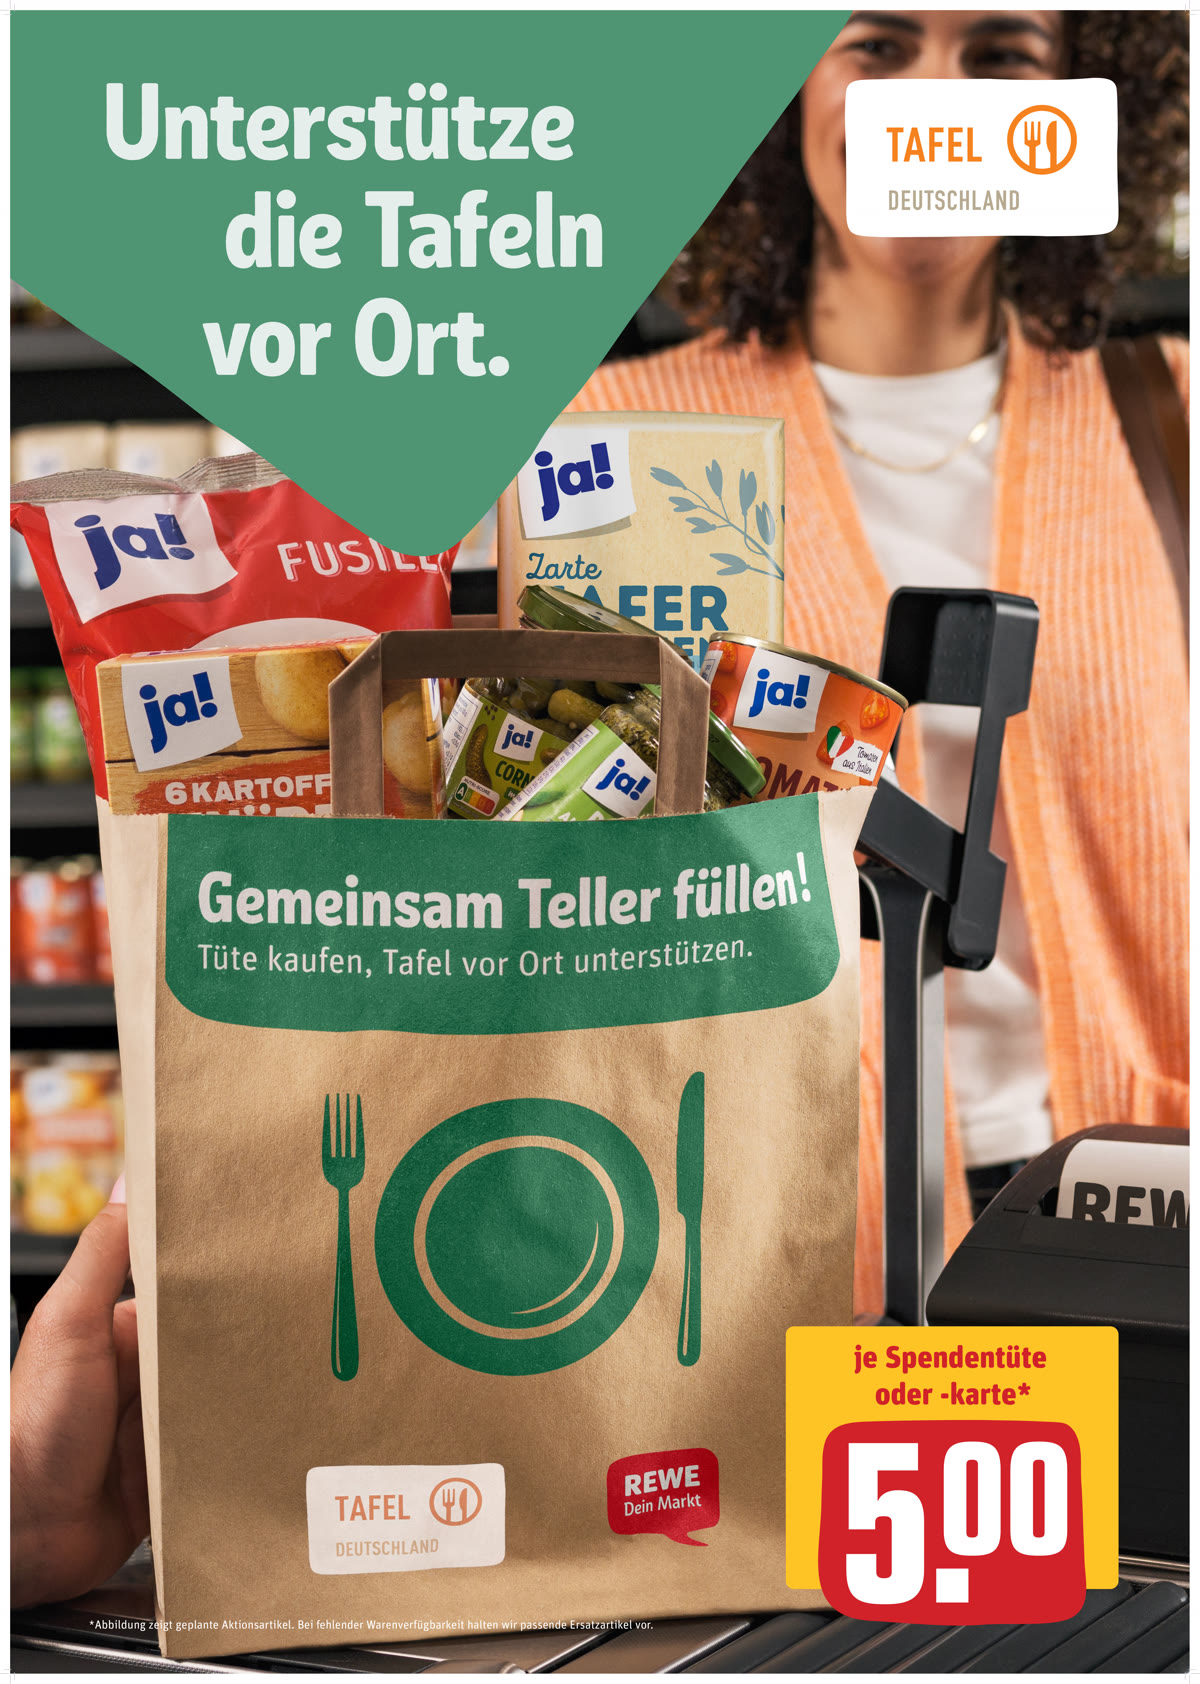
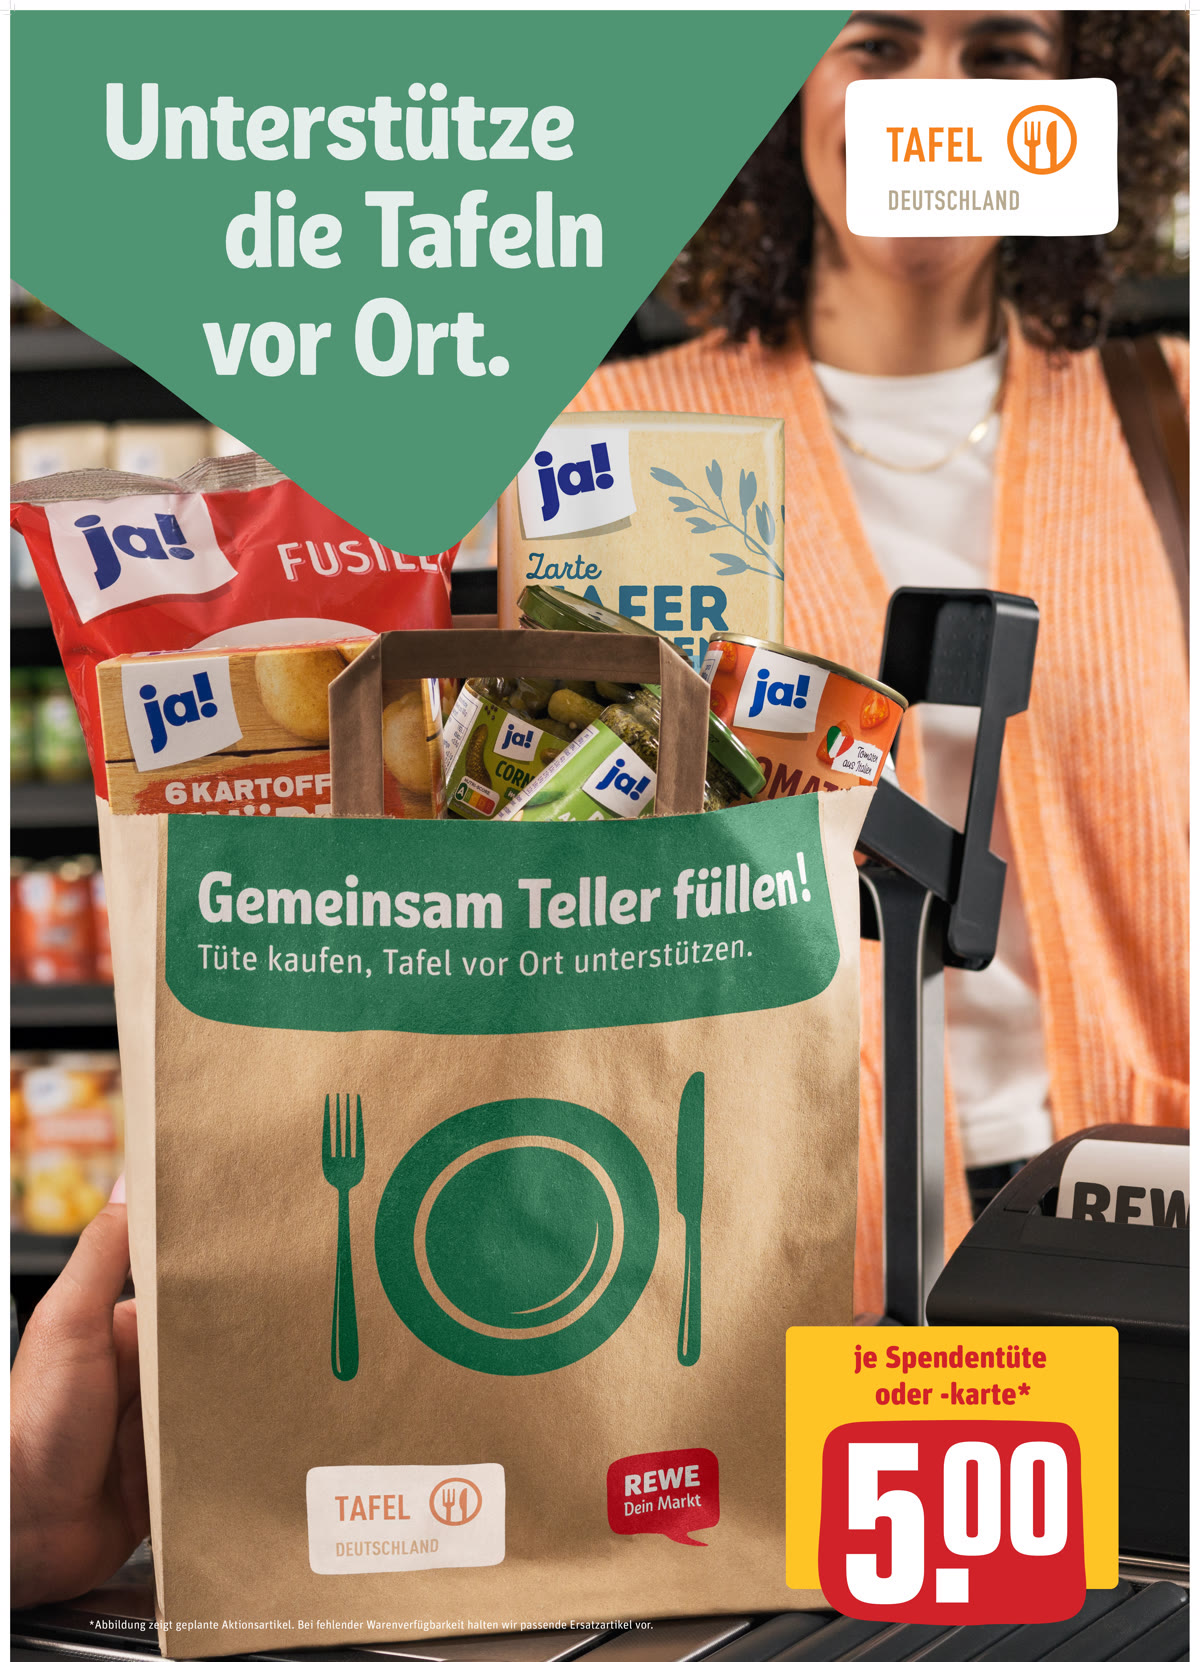
REWE Art Direction: Passermarken/Rand am Gehwegaufsteller-Bild abschneiden

diff --git a/lib/projects.ts b/lib/projects.ts
@@ -200,7 +200,7 @@ export const projects: Project[] = [
     cardVideo: "/projects/rewe-art-direction/neukundenrabatt.mp4",
     gallery: [
       { slotId: "detail-6", ratio: "1200/675", span2: true, src: "/projects/rewe-art-direction/weisser-bohnensalat.jpg", caption: "Rezeptkommunikation: Weißer Bohnensalat", placeholder: "Foto hier ablegen" },
-      { slotId: "detail-1", ratio: "1200/1684", span2: true, src: "/projects/rewe-art-direction/gehwegaufsteller.jpg", caption: "Gehwegaufsteller: Spendenaktion für die Tafeln vor Ort", placeholder: "Foto (Hochformat) hier ablegen" },
+      { slotId: "detail-1", ratio: "1200/1662", span2: true, src: "/projects/rewe-art-direction/gehwegaufsteller.jpg", caption: "Gehwegaufsteller: Spendenaktion für die Tafeln vor Ort", placeholder: "Foto (Hochformat) hier ablegen" },
       { slotId: "detail-2", ratio: "1200/1687", src: "/projects/rewe-art-direction/dankeskommunikation.jpg", caption: "Dankesplakat: „Gemeinsam Teller füllen“ für die Tafel-Kooperation", placeholder: "Foto (Hochformat) hier ablegen" },
       { slotId: "detail-3", ratio: "1200/1673", src: "/projects/rewe-art-direction/selfcheckout.jpg", caption: "Infotafel am Self-Checkout: Ablauf der Spendenaktion", placeholder: "Foto (Hochformat) hier ablegen" },
       { slotId: "detail-4", ratio: "600/1223", src: "/projects/rewe-art-direction/sesameis.jpg", caption: "Xmas-POS für REWE Feine Welt: Sesamreis mit Kokos auf Mango-Spiegel", placeholder: "Foto (Hochformat) hier ablegen" },
